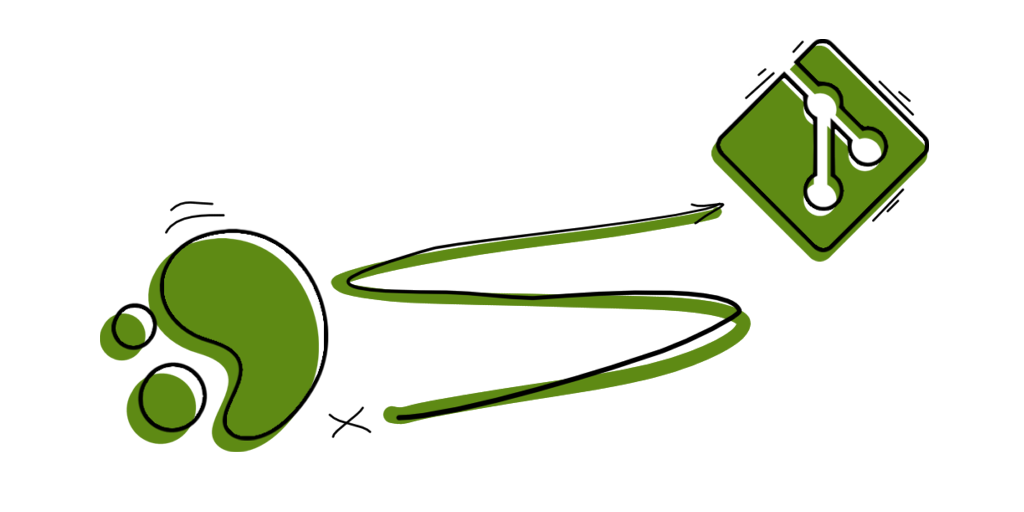
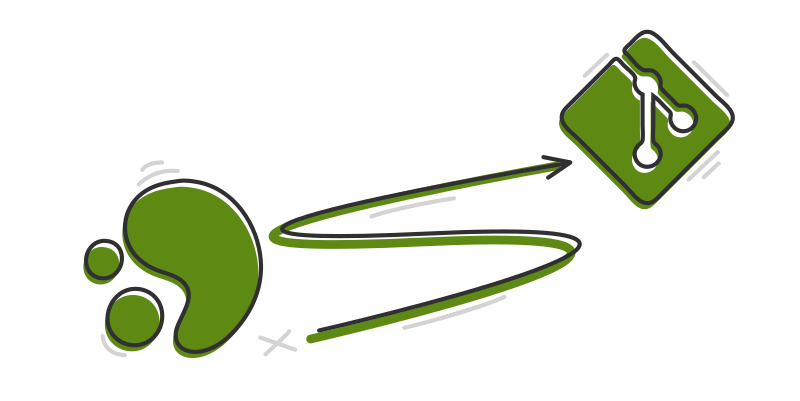
corrected errors in texts, changed cover images

Changed region(s): [[0.0938, 0.0599, 0.9375, 0.8978]]

diff --git a/_posts/2024-04-20-jenkins-theme-generator.md b/_posts/2024-04-20-jenkins-theme-generator.md
@@ -22,16 +22,16 @@ that were changing its appearance. I used it with
 (that is the fork of [jenkins-neo-theme](https://jenkins-contrib-themes.github.io/jenkins-neo-theme/))
 for a long time.
 
-Jenkins got a fancy new appearance in version `2.346.1`, which contains a full restyle and a new set of icons.
-Compatibility with existing themes was broken. Author of neo2-theme stopped its maintenance. But the new 
+In version `2.346.1` Jenkins got a fancy new appearance, including a complete restyling and a new set of icons.
+But the compatibility with existing themes was broken. Author of neo2-theme stopped its maintenance. But the new 
 appearance was already great, so the need for a custom theme has become less urgent.
 
-The only two reasons for me to create my own custom theme were:
+I wanted to change only two things:
 - Some of the plugins' icons were still not in the same style with the whole system. 
-- I wanted to save some colors that I used to from neo2-theme 
-(for example, header background color, and dark background in console)
+- I wanted to save the colors that I used to from neo2-theme 
+(for example, header background color and dark background in console)
 
-These reasons led me to create my custom theme.
+These things led me to create my custom theme.
 
 ### How Jenkins themes work
 
@@ -39,7 +39,7 @@ All Jenkins themes work on the same principle: overriding (or redefining) the de
 of overriding styles is provided by multiple plugins. Some of them, such as the 
 [dark-theme](https://plugins.jenkins.io/dark-theme/) or
 [material-theme](https://plugins.jenkins.io/material-theme/)
-provide ready-made CSS themes, 
+provide they own CSS themes, 
 while others, such as the
 [simple-theme-plugin](https://plugins.jenkins.io/simple-theme-plugin/) or 
 [theme-manager](https://plugins.jenkins.io/theme-manager/),
@@ -54,7 +54,7 @@ In the beginning, this project was about only one CSS theme than changed the bac
 and some plugins icons. There was no goal to drastically change the default theme; I only wanted
 to make it similar to neo2.
 
-But in the process, I noticed that I can make colors variables (not a single header color) configurable, 
+But in the process, I noticed that I can make all color variables (not only the header color) configurable, 
 and I liked that idea.
 
 To accomplish this goal, I have needed to connect the CSS variables in Jenkins styles between them. This was
@@ -81,8 +81,6 @@ So, I simply built a small list of icons that can be replaced.
 After adding the interface for picking colors and icons, the project was done.
 
 ### Lit.js
-
-
 
 I used [lit.js](https://lit.dev/) to make this project. It was my first attempt to use it, and I want to make a note about it.
 

diff --git a/_posts/2023-01-12-jekyll-and-gh-pages-RU.md b/_posts/2023-01-12-jekyll-and-gh-pages-RU.md
@@ -237,7 +237,7 @@ tag: {tag}
 ---
 ```
 
-К счастью описанные действия уже автоматизировали, существует [Github Action](https://github.com/marketplace/actions/tag-page-generator-for-jekyll-blogs) который генерирует такие страницы для тэгов. Инструкции и более детальный анализ проблемы можно найти в [блоге автора](https://www.joehxblog.com/github-actions-tag-page-generator-for-jekyll-blogs/) этого Action'а.
+К счастью, описанные действия уже автоматизировали, существует [Github Action](https://github.com/marketplace/actions/tag-page-generator-for-jekyll-blogs) который генерирует такие страницы для тэгов. Инструкции и более детальный анализ проблемы можно найти в [блоге автора](https://www.joehxblog.com/github-actions-tag-page-generator-for-jekyll-blogs/) этого Action'а.
 
 
 > Решение с единой страницей для тэгов, на мой взгляд:

diff --git a/_posts/2022-01-20-hg-to-git.md b/_posts/2022-01-20-hg-to-git.md
@@ -203,7 +203,7 @@ filter commits from "empty" ones like merge commits or `hg close` before the pus
 *Maybe I'll write the next note about cleaning the Git repo.*
 
 ### Thanks
-Thanks to my colleague Eugene for sharing me the following links
+Thanks to my coworker Eugene for sharing me the following links
 
 ### Links
 - <https://www.mercurial-scm.org/wiki/ConvertExtension#Converting_from_Mercurial>

diff --git a/_posts/2023-01-24-java-ternary-conditions-strange-NPE.md b/_posts/2023-01-24-java-ternary-conditions-strange-NPE.md
@@ -10,7 +10,7 @@ tags:
 - Java
 ---
 
-One day my colleague sent me a code snippet with a simple question "What will be written in test2 variable?":
+One day my coworker sent me a code snippet with a simple question "What will be written in test2 variable?":
 ```java
 Boolean test = null;
 Boolean test2 = (true) ? test : false;
